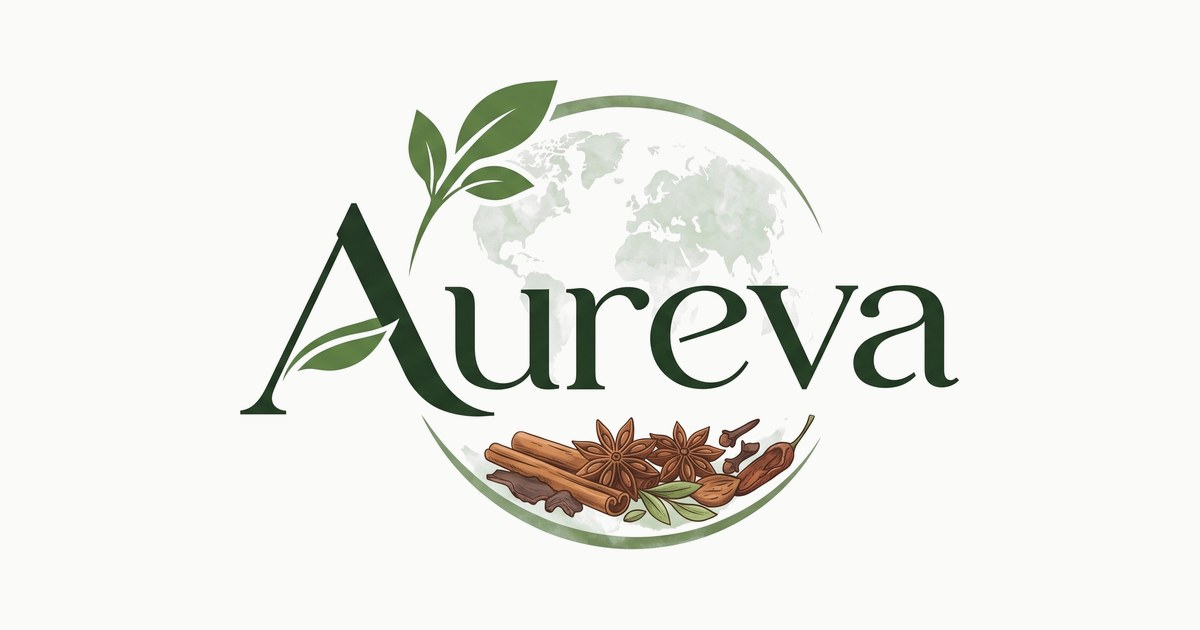
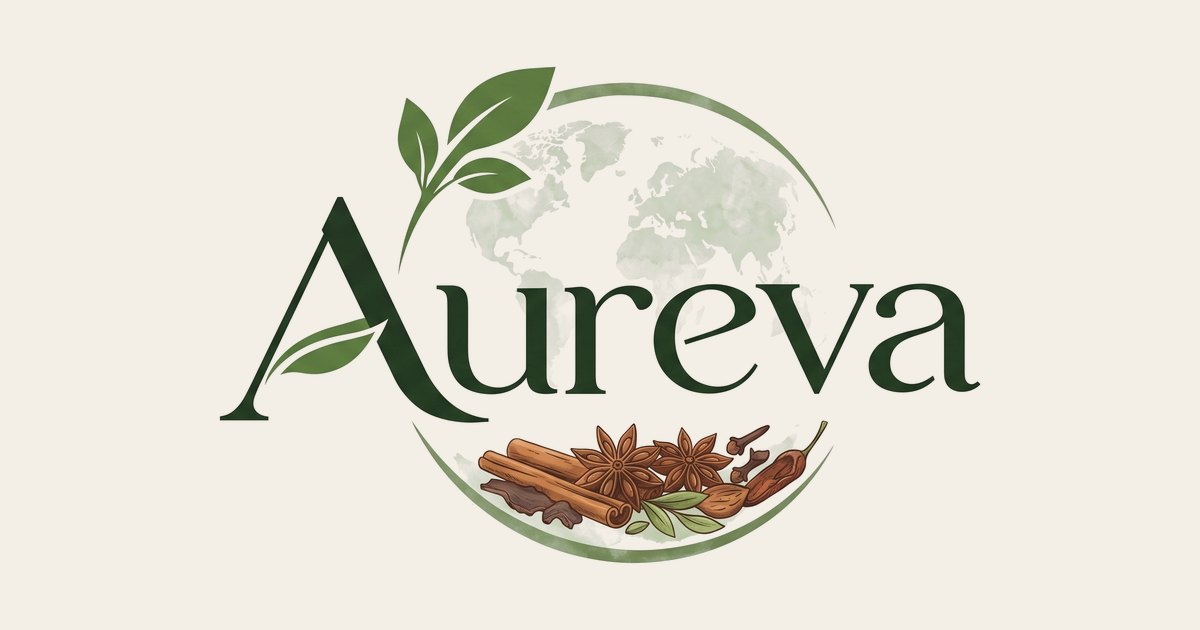
Refactor code structure for improved readability and maintainability

Changed region(s): [[0.185, 0.0905, 0.8325, 0.9048]]

diff --git a/src/lib/structuredData.ts b/src/lib/structuredData.ts
@@ -55,6 +55,36 @@ export function breadcrumbList(site: URL, items: NavLink[]): JsonLd {
   };
 }
 
+/**
+ * A page that lists products or categories, with the list as an ItemList.
+ * Names only: `Product` is not used, since rich results need price or
+ * offer details the site does not show (§7, D-07).
+ */
+export function collectionPage(
+  site: URL,
+  page: { url: string; title: string; description: string },
+  items: { name: string; url?: string }[],
+): JsonLd {
+  return {
+    "@type": "CollectionPage",
+    "@id": `${page.url}#webpage`,
+    url: page.url,
+    name: page.title,
+    description: page.description,
+    isPartOf: { "@id": `${site.href}#website` },
+    mainEntity: {
+      "@type": "ItemList",
+      numberOfItems: items.length,
+      itemListElement: items.map((item, index) => ({
+        "@type": "ListItem",
+        position: index + 1,
+        name: item.name,
+        ...(item.url && { url: new URL(item.url, site).href }),
+      })),
+    },
+  };
+}
+
 /** Serialise for a `<script type="application/ld+json">`; `<` is escaped so no text can close the tag */
 export function toJsonLd(graph: JsonLd[]): string {
   return JSON.stringify({

diff --git a/src/data/site.ts b/src/data/site.ts
@@ -61,6 +61,8 @@ export interface BusinessAddress {
 export interface SiteSettings {
   name: Setting<string>;
   legalName: Setting<string | null>;
+  /** Brand tagline, shown under the footer logo */
+  tagline: Setting<string>;
   footerIntro: Setting<string>;
   whatsapp: {
     /** Digits only, with country code, no "+" (wa.me format) */
@@ -103,6 +105,12 @@ export const site: SiteSettings = {
     value: null,
     status: "BLOCKED",
     note: "C-29: registered company name not supplied; copyright uses the trading name until then",
+  },
+
+  tagline: {
+    value: "Nature Preserved. Flavor Delivered.",
+    status: "CONFIRMED",
+    note: "Owner asked for it under the footer logo (2026-10-29), resolving C-06 for the footer; wording and US spelling as on the supplied logo",
   },
 
   footerIntro: {

diff --git a/docs/SEO_AND_PERFORMANCE.md b/docs/SEO_AND_PERFORMANCE.md
@@ -65,7 +65,7 @@ Home and Products Overview introduce the company and route visitors to these pag
 
 ## 6. Social sharing
 
-Each page sets Open Graph and Twitter card tags: `og:title`, `og:description`, `og:url` (canonical), `og:type` (`website`), `og:image` (1200 × 630, ASSET_GUIDELINES.md §4), `og:site_name` "Aureva Foods", and `twitter:card` `summary_large_image`. Until a page-specific image exists, the default share image is used.
+Each page sets Open Graph and Twitter card tags: `og:title`, `og:description`, `og:url` (canonical), `og:type` (`website`), `og:image` (1200 × 630, ASSET_GUIDELINES.md §4), `og:site_name` "Aureva Foods", and `twitter:card` `summary_large_image`. Until a page-specific image exists, the default share image is used: `public/og/default.jpg`, the logo on the cream of the supplied render (Home, About Us, Contact Us). The Products page and the three category pages have their own cards (`public/og/products.jpg`, `spices.jpg`, `dehydrated-products.jpg`, `fresh-fruits-vegetables.jpg`): the page's banner photo on the left with the logo on a cream panel. BaseLayout takes them through its `ogImage` prop, which also sets `og:image:alt` and `twitter:image:alt` (2026-10-29).
 
 ## 7. Structured data
 
@@ -75,6 +75,7 @@ JSON-LD, using only CONFIRMED values from `site.ts` (AD-08). Fields that are sti
 |---|---|---|---|
 | `Organization` | Home | Name, URL, logo (when supplied), email and telephone (when confirmed), `contactPoint` | Live 2026-10-27 with name, URL, logo and the confirmed phone as a sales `contactPoint`. Email, legal name and `sameAs` profiles added when C-03, C-29 and C-20 are confirmed |
 | `WebSite` | Home | Name, URL | Live 2026-10-27 |
+| `CollectionPage` + `ItemList` | Products, category pages | Page name, description and URL; the list holds the three categories (Products) or the category's product names from the catalogue | Added 2026-10-29. Names only, so no `Product` warnings |
 | `BreadcrumbList` | Category pages | Home › Products › Category | Live 2026-10-27, built from the same trail as the visible Breadcrumbs (C-32) |
 
 Built in `src/lib/structuredData.ts` and output by BaseLayout as one `@graph` per page.

diff --git a/docs/ASSET_GUIDELINES.md b/docs/ASSET_GUIDELINES.md
@@ -177,7 +177,7 @@ Every image added to the repository gets a row here, in the same change that add
 |---|---|---|
 | C-14 | How photography will be sourced: owner photos, paid stock, free stock or approved AI images | Owner photos where possible, otherwise licensed stock in one consistent style; decide before M3.1 |
 | C-13 | Approve the supplied AI-generated logo for use, and confirm Gemini's terms allow commercial and trademark use | Confirm before launch; ideally commission a vector redraw |
-| C-13 | Footer (olive band) needs a light version of the logo | Ivory wordmark variant, or the monogram plus an Ivory text wordmark |
+| C-13 | Footer (olive band) needs a light version of the logo | Done 2026-10-29 (owner request): `brand/aureva-foods-logo-light.webp`, the same artwork with the dark green wordmark and ring recoloured to mist, replaces the monogram plus text wordmark in the footer. A vector redraw would still give cleaner edges |
 | C-13 | Header lockup: the full emblem is detailed at header height (about 64 px) | A horizontal wordmark (leafed "A" plus "Aureva"), without globe and spices, for the header |
 | C-06 | Tagline "Nature Preserved. Flavor Delivered.": "preserved" may read as a preservation or natural claim, and "Flavor" is US spelling (D-08 uses British/Indian) | Kept out of the web logo until approved |
 
